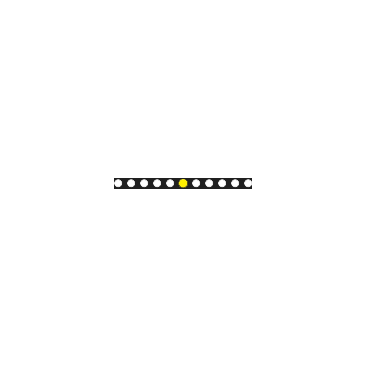
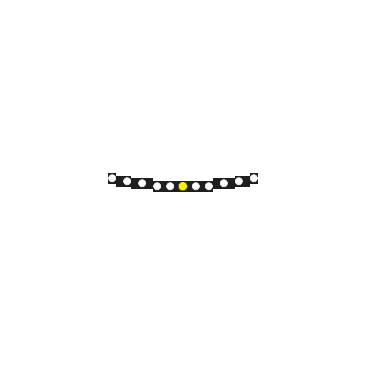
updated needle code, works but BAD/GOOD appears to suffer regression

Changed region(s): [[0.2997, 0.4496, 0.7193, 0.5395]]

diff --git a/src/ics314/Interface_Configurator.java b/src/ics314/Interface_Configurator.java
@@ -61,12 +61,23 @@ public class Interface_Configurator {
 	
 	public Transform getTransform(Display disp, int angle, 
 			Rectangle rect)
-	{
+	{	
+		float true_angle;
+		if(Math.abs(angle) > Vor_Const.DEF_MAX) {
+			if(angle > 0) {
+				true_angle = Vor_Const.DEF_MAX_ANGLE;
+			} else {
+				true_angle = -Vor_Const.DEF_MAX_ANGLE;
+			}
+		} else {
+			true_angle = angle * Vor_Const.ROTATE_OFFSET;;
+		}
+		
 		Transform transform = new Transform(disp);		      
         transform = new Transform(disp);
         transform.translate(Vor_Const.OBS_COORD + rect.width/2, 
         		(Vor_Const.NDL_Y + rect.height/2));
-        transform.rotate(-angle);
+        transform.rotate(-true_angle);
         transform.translate(-rect.width/2, -
         		(Vor_Const.NDL_Y +rect.height/2));
         return transform;

diff --git a/src/ics314/Interface.java b/src/ics314/Interface.java
@@ -88,9 +88,7 @@ public class Interface {
 		       e.gc.drawImage(icfg.getTFImage(imagelist, x),
 		    		   Vor_Const.TF_X, Vor_Const.TF_Y);
 		       
-		       
-		       int disp = 5;
-		       int y = 7 * disp;
+		       int y = calc.calculateDeflection(vor_rad);
 		       
 		       /* Draw Needle */
 		       transform = icfg.getTransform(Disp, y, n_rect);

diff --git a/src/ics314/Vor_Const.java b/src/ics314/Vor_Const.java
@@ -82,5 +82,8 @@ public interface Vor_Const {
 	//Needle Constants
 	static final int NDL_X = 0;
 	static final int NDL_Y = -65;
+	static final int DEF_MAX = 10;
+	static final int DEF_MAX_ANGLE = 40;
+	static final float ROTATE_OFFSET = 3.5f;
 	
 }

diff --git a/src/ics314/Calculation.java b/src/ics314/Calculation.java
@@ -41,12 +41,6 @@ public class Calculation {
         }
     }
 
-	
-	public int updateDeflection()
-	{
-		return 0;
-	}
-	
 	public int calculateDeflection(Radio vor)
 	{
 		return (vor.getRadioAngle() - vor.getOBSAngle());
